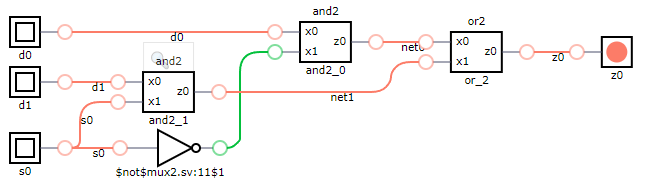
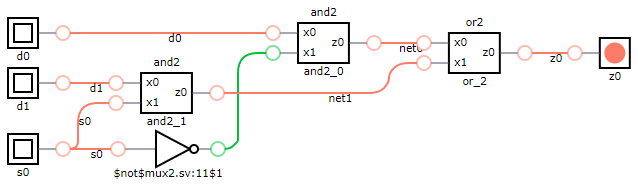
fixed mux2 bit order

Changed region(s): [[0.0, 0.0263, 1.0, 0.9474], [0.7147, 0.0789, 0.7743, 0.1316]]

diff --git a/combinational_logic_design/multiplexers/mux2/README.md b/combinational_logic_design/multiplexers/mux2/README.md
@@ -6,13 +6,12 @@
 The multiplexer (MUX) is a combinational logic circuit designed to switch one of several input lines through to a single common output line. Data input selection is controlled by a set of select inpucts that determine which data input is gated to the output. 
 
 This example designs a 2:1 multiplexer using logic gates. This multiplexer consists of two inputs, one select input and one output. Depending on the select signal, the output is connected to either of the inputs. The signals are labeled in the following way:
-
 * s0: select input.
 * d0, d1: data inputs.
 * z0: data output.
 
 ### Truth Table
-|s0 | d0 | d1 |z0 = f(s0,d0,d1)|
+|s0 | d1 | d0 |z0 = f(s0,d1,d0)|
 |:---:|:---:|:---:|:---:|
 |0| 0| x| 0|
 |0| 1| x| 1|
@@ -25,4 +24,4 @@ This example designs a 2:1 multiplexer using logic gates. This multiplexer consi
 ![mux2 info](./vcd_info.png "MUX 2:1 VCD Info")
 
 ## Design
-A modular design using two [AND 2:1](../and2/README.md) and one [OR 2:1](../or2/README.md) logic gates has been chosen to obtain the desired output.
+A modular design using two [AND 2:1](../../../basic_logic_design/logic_gates/and2/README.md) and one [OR 2:1](../../../basic_logic_design/logic_gates/or2/README.md) logic gates has been chosen to obtain the desired output.

diff --git a/combinational_logic_design/multiplexers/mux4/README.md b/combinational_logic_design/multiplexers/mux4/README.md
@@ -6,9 +6,9 @@
 The multiplexer (MUX) is a combinational logic circuit designed to switch one of several input lines through to a single common output line. Data input selection is controlled by a set of select inpucts that determine which data input is gated to the output. 
 
 This example designs a 4:1 multiplexer using 2:1 multiplexers. This multiplexer consists of four data input lines, two select lines and one output. The signals are labeled in the following way:
-* s_0, s_1: select inputs
-* d_0, d_1, d_2, d_3: data inputs
-* z_0: data output
+* s_0, s_1: select inputs.
+* d_0, d_1, d_2, d_3: data inputs.
+* z_0: data output.
 
 ### Truth Table
 |s0 | s1 | d0 | d1 | d2 | d3 |z0 = f(s0,s1,d0,d1,d2,d3)|
